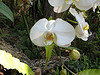
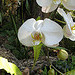
changed to square

diff --git a/js/flowers.js b/js/flowers.js
@@ -1,31 +1,37 @@
 $(function() {
     var $flowerHolder = $("#flower-holder");
     $flowerHolder
-            .isotope({
+    /*        .isotope({
                          animationEngine: 'jquery',
                          layoutMode: 'masonry',
-                         masonry: { columnWidth: 120 },
+                         masonry: { columnWidth: 100 },
                          cellsByRow : {
                              columnWidth : 250,
                              rowHeight : 250
                          }
-                     })
+                     })*/
             .children()
-            .toggle(showImage, hideImage)
             .each(function() {
-        var $this = $(this);
-        $this.click(function() {
-            $this.toggleClass("large");
-        });
-        new Image().src = $this.find('a').attr('href');
-    });
+                var $this = $(this);
+                $this
+                    .toggle(function() {
+                        showImage.apply($this);
+                        $this.addClass("large");
+                    }, function() {
+                        $this.removeClass("large");
+                        hideImage.apply($this);
+                    });
+                new Image().src = $this.find('a').attr('href');
+            });
 
     function showImage() {
 
         var $this = $(this);
 
         var $img = $this.find("img");
-        $this.data("size", [$this.width(),$this.height()]);
+        var size = [$this.width(),$this.height()];
+        console.log("show",$this,size)
+        $this.data("size", size);
         $this.data("thumbnail", $img.attr("src"));
 
         var image = new Image();
@@ -34,8 +40,8 @@ $(function() {
             $img/*.css({ width: '100%', height: '100% '})*/
                     .attr("src", image.src);
             var captionHeight = $this.find('.caption')/*.css("display", "block")*/.height();
-            $this.css({ width: image.width, height: image.height + captionHeight });
-            $flowerHolder.isotope('reLayout');
+            $this.animate({ width: image.width, height: image.height + captionHeight },
+            function() { /*$flowerHolder.isotope('reLayout');*/ });
         });
 
         image.src = $this.find("a")[0].href;
@@ -44,10 +50,14 @@ $(function() {
     }
 
     function hideImage() {
+        
         var $this = $(this);
+
         var size = $this.data("size");
-        $this.css({ width: size[0], height: size[1] });
+        console.log("hide",$this,size);
+        $this.animate({ width: size[0], height: size[1] });
         $this.find("img").attr("src", $this.data("thumbnail"));
-        $flowerHolder.isotope('reLayout');
+//        $flowerHolder.isotope('reLayout');
+        return true;
     }
 });

diff --git a/index.html b/index.html
@@ -12,28 +12,31 @@
         }
 
         body {
-
+            text-align: center;
         }
 
         #flower-holder {
+            text-align: center;
+
             overflow: hidden;
             padding: 0;
             margin: 0;
-            background-color: #f0f0f0;
+            background-color: #00f0f0;
         }
 
         #flower-holder div.item {
             border: 1px solid #000;
-            margin: 5px;
-            width: 100px;
+            margin: 12px 12px 13px 13px;
+            width: 75px;
             height: 75px;
+            float:left;
         }
         #flower-holder div.item.large {
             width: 500px;
             height: 375px;
         }
 
-        #flower-holder div.item.portrait {
+      /*  #flower-holder div.item.portrait {
             height: 100px;
             width: 75px;
         }
@@ -41,7 +44,7 @@
         #flower-holder div.item.portrait.large {
             height: 500px;
             width: 375px;
-        }
+        } */
 
         #flower-holder div.item a {
             display: block;
@@ -308,10 +311,11 @@
                    .css({
                           width: width + "px",
                           height: height +" px",
-                          margin: "auto 0 auto 0",
+                          margin: "12px auto 13px auto",
                           position : "absolute",
+                          "text-align": "center",
                           top: "0",
-                          "font-size": "75px"})
+                          "font-size": "50px"})
                    .animate( { "opacity" : 0.67})
                    .appendTo($this);
        });
